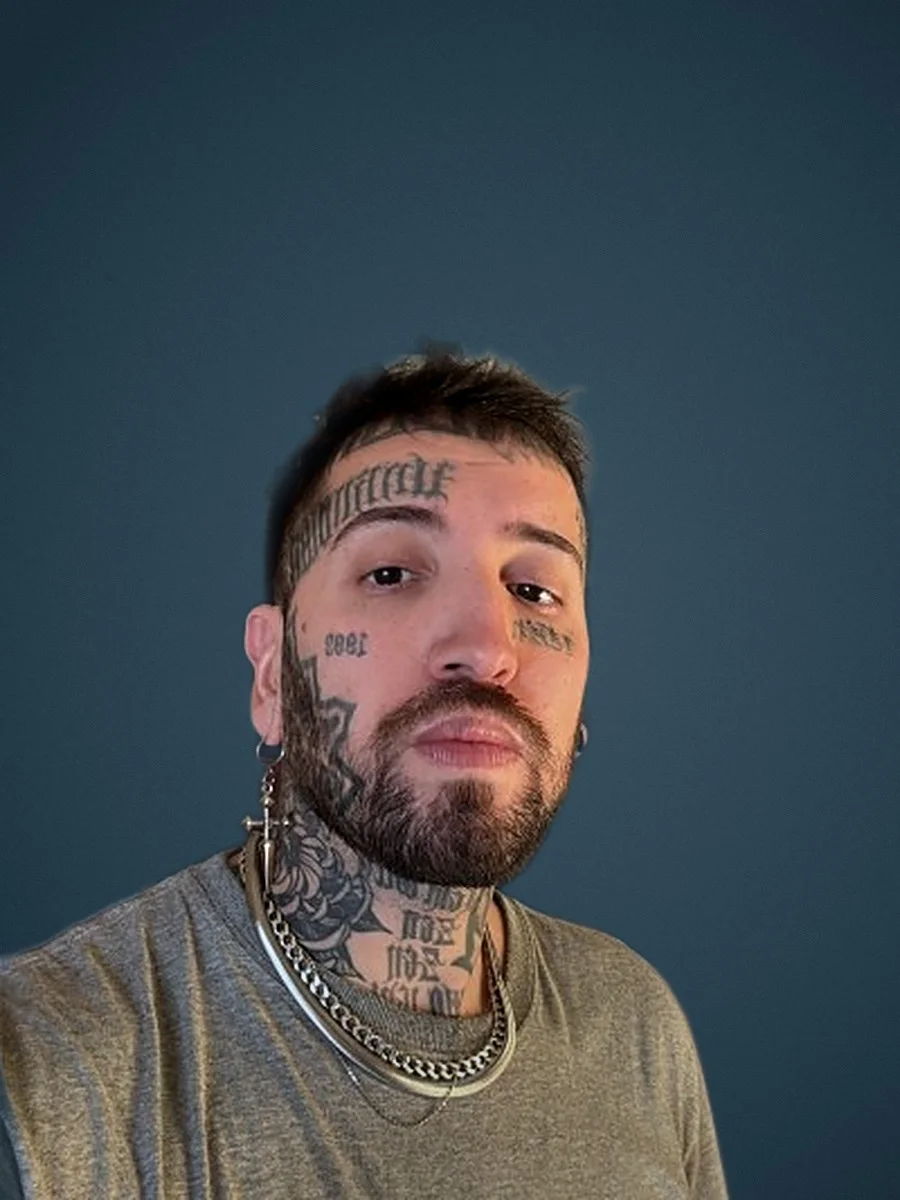
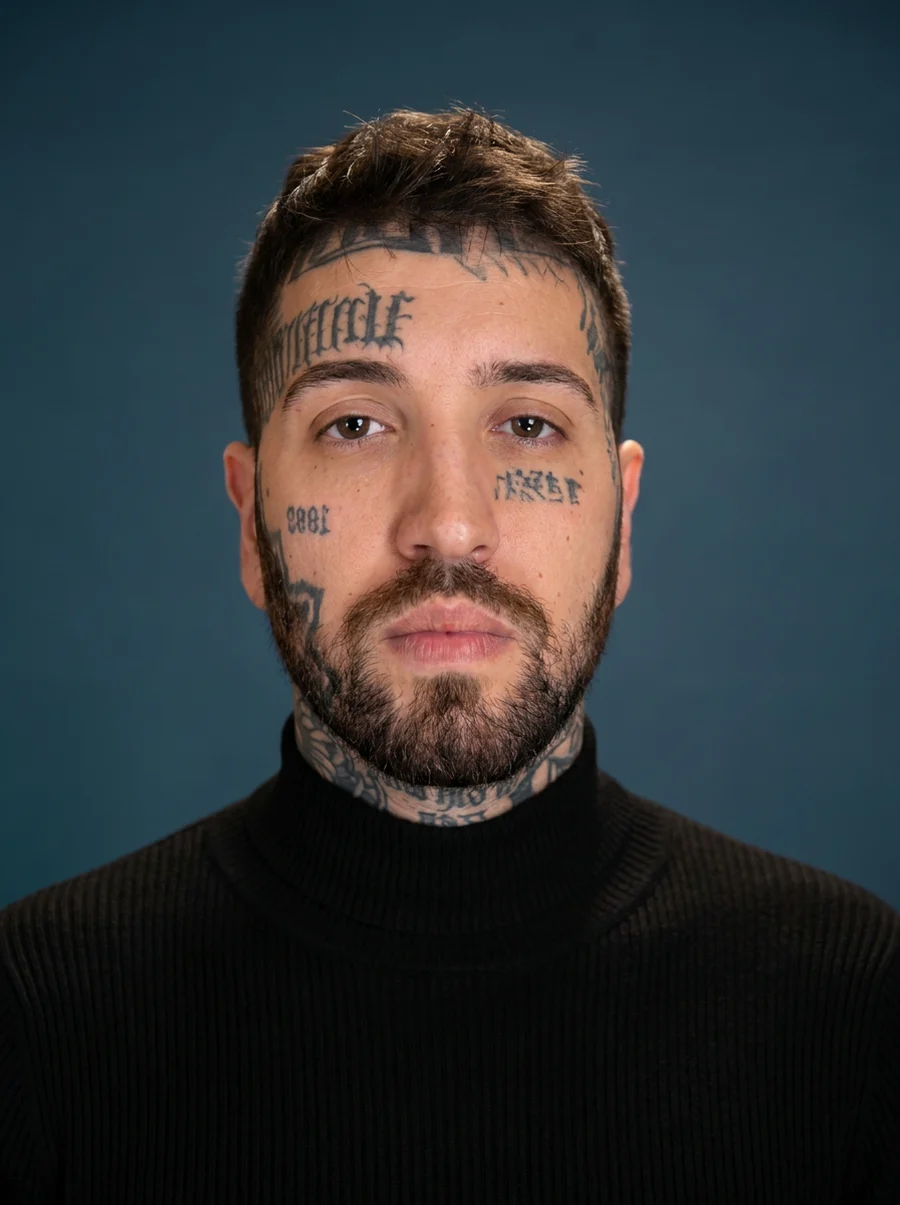
Quem faz: novo retrato de estúdio do Guilherme
Claude-Session: https://claude.ai/code/session_01GthLd4befTYDBdLqAccu9s

diff --git a/src/styles/home.css b/src/styles/home.css
@@ -18,7 +18,7 @@
 .pessoa { flex: 1 1 420px; border: 1px solid var(--cor-linha); padding: 24px; display: flex; flex-direction: column; gap: 18px; }
 .pessoa .marcador { height: 420px; }
 .pessoa-foto { display: block; width: 100%; height: 420px; object-fit: cover; object-position: 50% 28%; background: #1E3A48; }
-@media (max-width: 720px) { .pessoa-foto { height: auto; aspect-ratio: 1 / 1; } }
+@media (max-width: 720px) { .pessoa-foto { height: auto; aspect-ratio: 4 / 5; } }
 .pessoa h3 { margin: 0; font-weight: 800; font-stretch: 115%; font-size: clamp(30px, 3.4vw, 48px); line-height: 0.9; text-transform: uppercase; letter-spacing: -0.03em; }
 .pessoa p { margin: 0; }
 

diff --git a/src/pages/Inicio.tsx b/src/pages/Inicio.tsx
@@ -23,7 +23,7 @@ const pessoas = [
     areas: 'Direção de arte / Branding / Design gráfico',
     foto: 'equipe/guilherme.webp',
     alt: 'Retrato de Guilherme Policastro de Assis sobre fundo azul-petróleo',
-    posicao: '50% 55%',
+    posicao: '50% 18%',
   },
 ]
 
